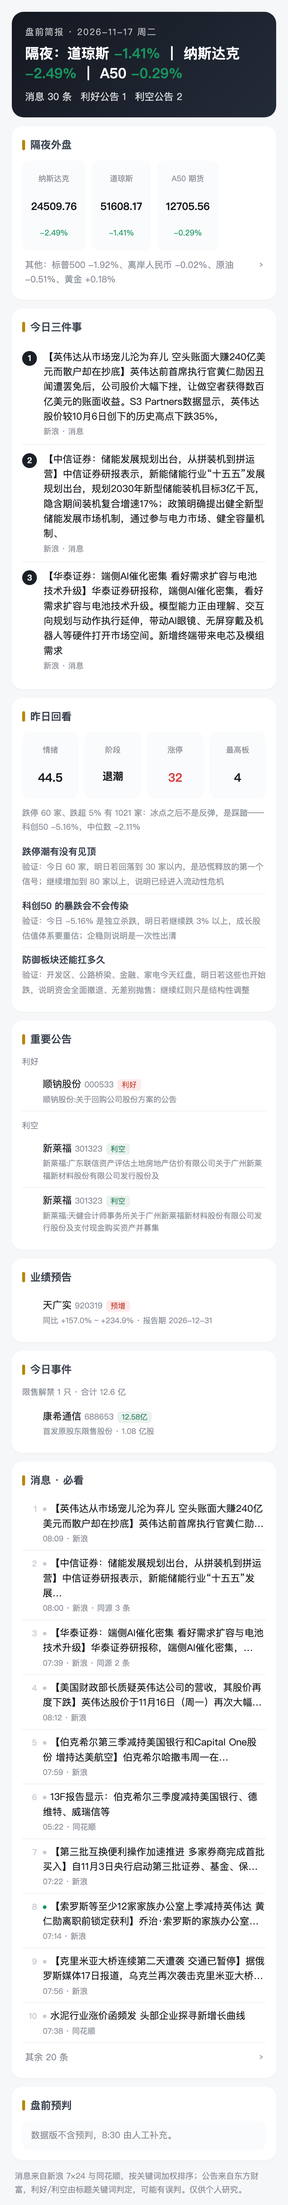
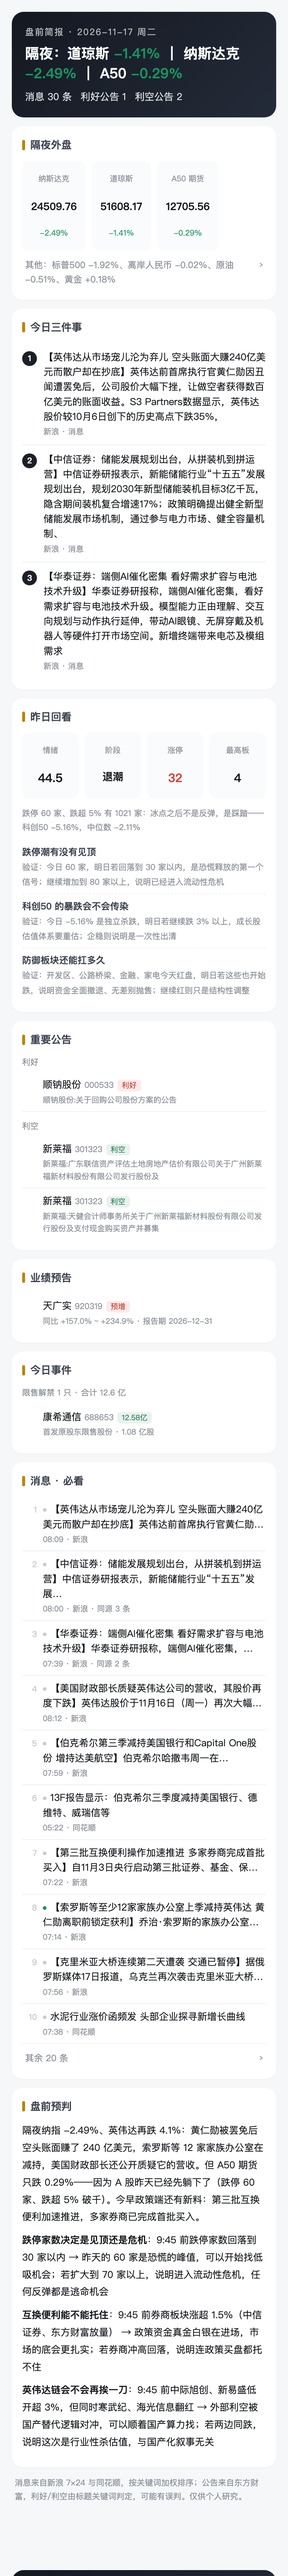
report: 2026-11-16

Changed region(s): [[0.0308, 0.0, 0.9538, 1.0]]

diff --git a/pre/2026-11-17/2026-11-17-盘前.html b/pre/2026-11-17/2026-11-17-盘前.html
@@ -57,4 +57,4 @@ padding:9px 16px;font-size:12.5px;max-width:560px;margin:0 auto}
 .nav a{color:#8a8f98;text-decoration:none;white-space:nowrap}
 .nav a.on{color:#1b1f27;font-weight:700}
 .nav a.home{color:#b8860b;font-weight:600}
-</style><link rel="manifest" href="/a-share-review/manifest.webmanifest"><meta name="theme-color" content="#1b1f27"><meta name="apple-mobile-web-app-capable" content="yes"><meta name="apple-mobile-web-app-status-bar-style" content="black-translucent"><meta name="apple-mobile-web-app-title" content="A股复盘"><link rel="apple-touch-icon" href="/a-share-review/icon-192.png"></head><body><div class="nav"><a class="home" href="../../index.html">⌂ 首页</a><a class="on" href="../../pre/index.html">盘前简报</a></div><div class="wrap"><div class="hero"><div class="d">盘前简报 · 2026-11-17 周二</div><h1>隔夜：道琼斯 <b class="down">-1.41%</b> ｜ 纳斯达克 <b class="down">-2.49%</b> ｜ A50 <b class="down">-0.29%</b></h1><div class="sum"><span>消息 30 条</span><span>利好公告 1</span><span>利空公告 2</span></div></div><div class="card"><h2>隔夜外盘</h2><div class="ov"><div><div class="n">纳斯达克</div><div class="v">24509.76</div><div class="p down">-2.49%</div></div><div><div class="n">道琼斯</div><div class="v">51608.17</div><div class="p down">-1.41%</div></div><div><div class="n">A50 期货</div><div class="v">12705.56</div><div class="p down">-0.29%</div></div></div><details class="more"><summary><span>其他：标普500 -1.92%、离岸人民币 -0.02%、原油 -0.51%、黄金 +0.18%</span><span class="arw">›</span></summary><div class="ov" style="margin-top:8px"><div><div class="n">标普500</div><div class="v">7416.59</div><div class="p down">-1.92%</div></div><div><div class="n">离岸人民币</div><div class="v">6.66</div><div class="p down">-0.02%</div></div><div><div class="n">原油</div><div class="v">85.28</div><div class="p down">-0.51%</div></div><div><div class="n">黄金</div><div class="v">3860.00</div><div class="p up">+0.18%</div></div></div></details></div><div class="card"><h2>今日三件事</h2><div class="t3"><div class="n">1</div><div><div class="t">【英伟达从市场宠儿沦为弃儿 空头账面大赚240亿美元而散户却在抄底】英伟达前首席执行官黄仁勋因丑闻遭罢免后，公司股价大幅下挫，让做空者获得数百亿美元的账面收益。S3 Partners数据显示，英伟达股价较10月6日创下的历史高点下跌35%，</div><div class="s">新浪 · 消息</div></div></div><div class="t3"><div class="n">2</div><div><div class="t">【中信证券：储能发展规划出台，从拼装机到拼运营】中信证券研报表示，新能储能行业“十五五”发展规划出台，规划2030年新型储能装机目标3亿千瓦，隐含期间装机复合增速17%；政策明确提出健全新型储能发展市场机制，通过参与电力市场、健全容量机制、</div><div class="s">新浪 · 消息</div></div></div><div class="t3"><div class="n">3</div><div><div class="t">【华泰证券：端侧AI催化密集 看好需求扩容与电池技术升级】华泰证券研报称，端侧AI催化密集，看好需求扩容与电池技术升级。模型能力正由理解、交互向规划与动作执行延伸，带动AI眼镜、无屏穿戴及机器人等硬件打开市场空间。新增终端带来电芯及模组需求</div><div class="s">新浪 · 消息</div></div></div></div><div class="card"><h2>昨日回看</h2><div class="kv"><div><div class="n">情绪</div><div class="v">44.5</div></div><div><div class="n">阶段</div><div class="v" style="font-size:14px">退潮</div></div><div><div class="n">涨停</div><div class="v up">32</div></div><div><div class="n">最高板</div><div class="v">4</div></div></div><div class="note" style="margin-bottom:8px">跌停 60 家、跌超 5% 有 1021 家：冰点之后不是反弹，是踩踏——科创50 -5.16%，中位数 -2.11%</div><div class="watch"><b>跌停潮有没有见顶</b><br><span class="note">验证：今日 60 家，明日若回落到 30 家以内，是恐慌释放的第一个信号；继续增加到 80 家以上，说明已经进入流动性危机</span></div><div class="watch"><b>科创50 的暴跌会不会传染</b><br><span class="note">验证：今日 -5.16% 是独立杀跌，明日若继续跌 3% 以上，成长股估值体系要重估；企稳则说明是一次性出清</span></div><div class="watch"><b>防御板块还能扛多久</b><br><span class="note">验证：开发区、公路桥梁、金融、家电今天红盘，明日若这些也开始跌，说明资金全面撤退、无差别抛售；继续红则只是结构性调整</span></div></div><div class="card"><h2>重要公告</h2><div class="note" style="margin-bottom:4px">利好</div><div class="item"><div class="no"></div><div class="b"><div class="t">顺钠股份 <span class="mut" style="font-size:11px">000533</span><span class="tag tag-good">利好</span></div><div class="m">顺钠股份:关于回购公司股份方案的公告</div></div></div><div class="note" style="margin:10px 0 4px">利空</div><div class="item"><div class="no"></div><div class="b"><div class="t">新莱福 <span class="mut" style="font-size:11px">301323</span><span class="tag tag-bad">利空</span></div><div class="m">新莱福:广东联信资产评估土地房地产估价有限公司关于广州新莱福新材料股份有限公司发行股份及</div></div></div><div class="item"><div class="no"></div><div class="b"><div class="t">新莱福 <span class="mut" style="font-size:11px">301323</span><span class="tag tag-bad">利空</span></div><div class="m">新莱福:天健会计师事务所关于广州新莱福新材料股份有限公司发行股份及支付现金购买资产并募集</div></div></div></div><div class="card"><h2>业绩预告</h2><div class="item"><div class="no"></div><div class="b"><div class="t">天广实 <span class="mut" style="font-size:11px">920319</span><span class="tag tag-good">预增</span></div><div class="m">同比 +157.0% ~ +234.9% · 报告期 2026-12-31</div></div></div></div><div class="card"><h2>今日事件</h2><div class="note" style="margin-bottom:6px">限售解禁 1 只 · 合计 12.6 亿</div><div class="item"><div class="no"></div><div class="b"><div class="t">康希通信 <span class="mut" style="font-size:11px">688653</span><span class="tag tag-bad">12.58亿</span></div><div class="m">首发原股东限售股份 · 1.08 亿股</div></div></div></div><div class="card"><h2>消息 · 必看</h2><div class="item"><div class="no">1</div><div class="b"><div class="t"><span class="dot n"></span>【英伟达从市场宠儿沦为弃儿 空头账面大赚240亿美元而散户却在抄底】英伟达前首席执行官黄仁勋…</div><div class="m">08:09 · 新浪</div></div></div><div class="item"><div class="no">2</div><div class="b"><div class="t"><span class="dot n"></span>【中信证券：储能发展规划出台，从拼装机到拼运营】中信证券研报表示，新能储能行业“十五五”发展…</div><div class="m">08:00 · 新浪 · 同源 3 条</div></div></div><div class="item"><div class="no">3</div><div class="b"><div class="t"><span class="dot n"></span>【华泰证券：端侧AI催化密集 看好需求扩容与电池技术升级】华泰证券研报称，端侧AI催化密集，…</div><div class="m">07:39 · 新浪 · 同源 2 条</div></div></div><div class="item"><div class="no">4</div><div class="b"><div class="t"><span class="dot n"></span>【美国财政部长质疑英伟达公司的营收，其股价再度下跌】英伟达股价于11月16日（周一）再次大幅…</div><div class="m">08:12 · 新浪</div></div></div><div class="item"><div class="no">5</div><div class="b"><div class="t"><span class="dot n"></span>【伯克希尔第三季减持美国银行和Capital One股份 增持达美航空】伯克希尔哈撒韦周一在…</div><div class="m">07:59 · 新浪</div></div></div><div class="item"><div class="no">6</div><div class="b"><div class="t"><span class="dot n"></span>13F报告显示：伯克希尔三季度减持美国银行、德维特、威瑞信等</div><div class="m">05:22 · 同花顺</div></div></div><div class="item"><div class="no">7</div><div class="b"><div class="t"><span class="dot n"></span>【第三批互换便利操作加速推进 多家券商完成首批买入】自11月3日央行启动第三批证券、基金、保…</div><div class="m">07:22 · 新浪</div></div></div><div class="item"><div class="no">8</div><div class="b"><div class="t"><span class="dot b2"></span>【索罗斯等至少12家家族办公室上季减持英伟达 黄仁勋离职前锁定获利】乔治·索罗斯的家族办公室…</div><div class="m">07:14 · 新浪</div></div></div><div class="item"><div class="no">9</div><div class="b"><div class="t"><span class="dot n"></span>【克里米亚大桥连续第二天遭袭 交通已暂停】据俄罗斯媒体17日报道，乌克兰再次袭击克里米亚大桥…</div><div class="m">07:56 · 新浪</div></div></div><div class="item"><div class="no">10</div><div class="b"><div class="t"><span class="dot n"></span>水泥行业涨价函频发 头部企业探寻新增长曲线</div><div class="m">07:38 · 同花顺</div></div></div><details class="more"><summary><span>其余 20 条</span><span class="arw">›</span></summary><div class="item"><div class="no">11</div><div class="b"><div class="t"><span class="dot n"></span>【多重因素压制金价上涨 机构对后市看法产生分歧】美国最新通胀数据公布后，国际金价近期再起波澜…</div><div class="m">07:20 · 新浪</div></div></div><div class="item"><div class="no">12</div><div class="b"><div class="t"><span class="dot n"></span>美联储哈马克：倾向于稳步、缓慢地逐步加息</div><div class="m">03:13 · 同花顺</div></div></div><div class="item"><div class="no">13</div><div class="b"><div class="t"><span class="dot n"></span>高盛：在各国央行持续购金推动下 金价到2027年底或升至4,650美元/盎司</div><div class="m">03:09 · 同花顺</div></div></div><div class="item"><div class="no">14</div><div class="b"><div class="t"><span class="dot b2"></span>加州起诉OpenAI：指控AI智能体失控引发网络安全事件</div><div class="m">08:16 · 同花顺</div></div></div><div class="item"><div class="no">15</div><div class="b"><div class="t"><span class="dot g"></span>【开源欧拉拥抱智能基础设施新赛道】近日，openEuler（开源欧拉）社区在开源欧拉大会20…</div><div class="m">07:57 · 新浪</div></div></div><div class="item"><div class="no">16</div><div class="b"><div class="t"><span class="dot g"></span>AI等硬科技企业密集赴港上市 商业化验证成为估值分水岭</div><div class="m">06:44 · 同花顺</div></div></div><div class="item"><div class="no">17</div><div class="b"><div class="t"><span class="dot g"></span>特斯拉拟投30亿欧元扩建德国工厂 瞄准年产百万辆Cybercab</div><div class="m">04:10 · 同花顺</div></div></div><div class="item"><div class="no">18</div><div class="b"><div class="t"><span class="dot n"></span>【中信建投：物理AI是人工智能下一波浪潮 建议聚焦优质环节】中信建投研报称，北美巨头加速布局…</div><div class="m">07:57 · 新浪</div></div></div><div class="item"><div class="no">19</div><div class="b"><div class="t"><span class="dot n"></span>【特朗普支持黄仁勋重掌英伟达 董事会据悉未考虑让他复职】美国总统唐纳德·特朗普支持一些硅谷领…</div><div class="m">07:25 · 新浪</div></div></div><div class="item"><div class="no">20</div><div class="b"><div class="t"><span class="dot n"></span>【德意志银行认为亚洲芯片贸易顺差流入美股为美元提供支撑】德意志银行认为，亚洲不断扩大的芯片贸…</div><div class="m">07:17 · 新浪</div></div></div><div class="item"><div class="no">21</div><div class="b"><div class="t"><span class="dot n"></span>美股收评：美股三大指数集体收跌 费城半导体指数重挫逾5%</div><div class="m">05:01 · 同花顺</div></div></div><div class="item"><div class="no">22</div><div class="b"><div class="t"><span class="dot g"></span>桥水基金第三季度增持美光、闪迪，重仓英伟达、博通和标普500指数ETF</div><div class="m">05:29 · 同花顺</div></div></div><div class="item"><div class="no">23</div><div class="b"><div class="t"><span class="dot g"></span>现货黄金突破3860美元/盎司，日内涨0.10%。</div><div class="m">07:49 · 新浪</div></div></div><div class="item"><div class="no">24</div><div class="b"><div class="t"><span class="dot b2"></span>Uber高级副总裁、首席法务官兼公司秘书Tony West减持价值248万美元的公司股票。</div><div class="m">07:48 · 新浪</div></div></div><div class="item"><div class="no">25</div><div class="b"><div class="t"><span class="dot b2"></span>【*ST公司年末冲刺保壳 “财技续壳”难过关】2026年还剩一个多月，一批处在退市边缘的*S…</div><div class="m">07:19 · 新浪</div></div></div><div class="item"><div class="no">26</div><div class="b"><div class="t"><span class="dot n"></span>【纳斯达克23小时制交易渐近 全球化赛道联动性或增强】纳斯达克“23/5”交易制度落地进入倒…</div><div class="m">07:32 · 新浪</div></div></div><div class="item"><div class="no">27</div><div class="b"><div class="t"><span class="dot n"></span>【日经指数下跌1% 受芯片股和金融股拖累】隔夜美国科技股走弱后，日本股市下跌。芯片股和金融股…</div><div class="m">08:16 · 新浪</div></div></div><div class="item"><div class="no">28</div><div class="b"><div class="t"><span class="dot n"></span>【Tradeweb开始向美国国债交易员推出AI助理 逾十家公司在测试】随着各大电子交易平台竞…</div><div class="m">08:07 · 新浪</div></div></div><div class="item"><div class="no">29</div><div class="b"><div class="t"><span class="dot n"></span>【前白宫经济顾问警告：若AI泡沫破裂，基准情形标普500或下跌25%】曾任美国白宫经济顾问委…</div><div class="m">07:55 · 新浪</div></div></div><div class="item"><div class="no">30</div><div class="b"><div class="t"><span class="dot n"></span>【天风证券：市场已接近相对底部区域 积极关注非银板块】天风证券发布市场报告称，从“稳”的角度…</div><div class="m">07:52 · 新浪</div></div></div></details></div><div class="card"><h2>盘前预判</h2><div class="empty">数据版不含预判，8:30 由人工补充。</div></div><div class="note" style="padding:0 4px">消息来自新浪 7×24 与同花顺，按关键词加权排序；公告来自东方财富，利好/利空由标题关键词判定，可能有误判。仅供个人研究。</div></div></body></html>
+</style><link rel="manifest" href="/a-share-review/manifest.webmanifest"><meta name="theme-color" content="#1b1f27"><meta name="apple-mobile-web-app-capable" content="yes"><meta name="apple-mobile-web-app-status-bar-style" content="black-translucent"><meta name="apple-mobile-web-app-title" content="A股复盘"><link rel="apple-touch-icon" href="/a-share-review/icon-192.png"></head><body><div class="nav"><a class="home" href="../../index.html">⌂ 首页</a><a class="on" href="../../pre/index.html">盘前简报</a></div><div class="wrap"><div class="hero"><div class="d">盘前简报 · 2026-11-17 周二</div><h1>隔夜：道琼斯 <b class="down">-1.41%</b> ｜ 纳斯达克 <b class="down">-2.49%</b> ｜ A50 <b class="down">-0.29%</b></h1><div class="sum"><span>消息 30 条</span><span>利好公告 1</span><span>利空公告 2</span></div></div><div class="card"><h2>隔夜外盘</h2><div class="ov"><div><div class="n">纳斯达克</div><div class="v">24509.76</div><div class="p down">-2.49%</div></div><div><div class="n">道琼斯</div><div class="v">51608.17</div><div class="p down">-1.41%</div></div><div><div class="n">A50 期货</div><div class="v">12705.56</div><div class="p down">-0.29%</div></div></div><details class="more"><summary><span>其他：标普500 -1.92%、离岸人民币 -0.02%、原油 -0.51%、黄金 +0.18%</span><span class="arw">›</span></summary><div class="ov" style="margin-top:8px"><div><div class="n">标普500</div><div class="v">7416.59</div><div class="p down">-1.92%</div></div><div><div class="n">离岸人民币</div><div class="v">6.66</div><div class="p down">-0.02%</div></div><div><div class="n">原油</div><div class="v">85.28</div><div class="p down">-0.51%</div></div><div><div class="n">黄金</div><div class="v">3860.00</div><div class="p up">+0.18%</div></div></div></details></div><div class="card"><h2>今日三件事</h2><div class="t3"><div class="n">1</div><div><div class="t">【英伟达从市场宠儿沦为弃儿 空头账面大赚240亿美元而散户却在抄底】英伟达前首席执行官黄仁勋因丑闻遭罢免后，公司股价大幅下挫，让做空者获得数百亿美元的账面收益。S3 Partners数据显示，英伟达股价较10月6日创下的历史高点下跌35%，</div><div class="s">新浪 · 消息</div></div></div><div class="t3"><div class="n">2</div><div><div class="t">【中信证券：储能发展规划出台，从拼装机到拼运营】中信证券研报表示，新能储能行业“十五五”发展规划出台，规划2030年新型储能装机目标3亿千瓦，隐含期间装机复合增速17%；政策明确提出健全新型储能发展市场机制，通过参与电力市场、健全容量机制、</div><div class="s">新浪 · 消息</div></div></div><div class="t3"><div class="n">3</div><div><div class="t">【华泰证券：端侧AI催化密集 看好需求扩容与电池技术升级】华泰证券研报称，端侧AI催化密集，看好需求扩容与电池技术升级。模型能力正由理解、交互向规划与动作执行延伸，带动AI眼镜、无屏穿戴及机器人等硬件打开市场空间。新增终端带来电芯及模组需求</div><div class="s">新浪 · 消息</div></div></div></div><div class="card"><h2>昨日回看</h2><div class="kv"><div><div class="n">情绪</div><div class="v">44.5</div></div><div><div class="n">阶段</div><div class="v" style="font-size:14px">退潮</div></div><div><div class="n">涨停</div><div class="v up">32</div></div><div><div class="n">最高板</div><div class="v">4</div></div></div><div class="note" style="margin-bottom:8px">跌停 60 家、跌超 5% 有 1021 家：冰点之后不是反弹，是踩踏——科创50 -5.16%，中位数 -2.11%</div><div class="watch"><b>跌停潮有没有见顶</b><br><span class="note">验证：今日 60 家，明日若回落到 30 家以内，是恐慌释放的第一个信号；继续增加到 80 家以上，说明已经进入流动性危机</span></div><div class="watch"><b>科创50 的暴跌会不会传染</b><br><span class="note">验证：今日 -5.16% 是独立杀跌，明日若继续跌 3% 以上，成长股估值体系要重估；企稳则说明是一次性出清</span></div><div class="watch"><b>防御板块还能扛多久</b><br><span class="note">验证：开发区、公路桥梁、金融、家电今天红盘，明日若这些也开始跌，说明资金全面撤退、无差别抛售；继续红则只是结构性调整</span></div></div><div class="card"><h2>重要公告</h2><div class="note" style="margin-bottom:4px">利好</div><div class="item"><div class="no"></div><div class="b"><div class="t">顺钠股份 <span class="mut" style="font-size:11px">000533</span><span class="tag tag-good">利好</span></div><div class="m">顺钠股份:关于回购公司股份方案的公告</div></div></div><div class="note" style="margin:10px 0 4px">利空</div><div class="item"><div class="no"></div><div class="b"><div class="t">新莱福 <span class="mut" style="font-size:11px">301323</span><span class="tag tag-bad">利空</span></div><div class="m">新莱福:广东联信资产评估土地房地产估价有限公司关于广州新莱福新材料股份有限公司发行股份及</div></div></div><div class="item"><div class="no"></div><div class="b"><div class="t">新莱福 <span class="mut" style="font-size:11px">301323</span><span class="tag tag-bad">利空</span></div><div class="m">新莱福:天健会计师事务所关于广州新莱福新材料股份有限公司发行股份及支付现金购买资产并募集</div></div></div></div><div class="card"><h2>业绩预告</h2><div class="item"><div class="no"></div><div class="b"><div class="t">天广实 <span class="mut" style="font-size:11px">920319</span><span class="tag tag-good">预增</span></div><div class="m">同比 +157.0% ~ +234.9% · 报告期 2026-12-31</div></div></div></div><div class="card"><h2>今日事件</h2><div class="note" style="margin-bottom:6px">限售解禁 1 只 · 合计 12.6 亿</div><div class="item"><div class="no"></div><div class="b"><div class="t">康希通信 <span class="mut" style="font-size:11px">688653</span><span class="tag tag-bad">12.58亿</span></div><div class="m">首发原股东限售股份 · 1.08 亿股</div></div></div></div><div class="card"><h2>消息 · 必看</h2><div class="item"><div class="no">1</div><div class="b"><div class="t"><span class="dot n"></span>【英伟达从市场宠儿沦为弃儿 空头账面大赚240亿美元而散户却在抄底】英伟达前首席执行官黄仁勋…</div><div class="m">08:09 · 新浪</div></div></div><div class="item"><div class="no">2</div><div class="b"><div class="t"><span class="dot n"></span>【中信证券：储能发展规划出台，从拼装机到拼运营】中信证券研报表示，新能储能行业“十五五”发展…</div><div class="m">08:00 · 新浪 · 同源 3 条</div></div></div><div class="item"><div class="no">3</div><div class="b"><div class="t"><span class="dot n"></span>【华泰证券：端侧AI催化密集 看好需求扩容与电池技术升级】华泰证券研报称，端侧AI催化密集，…</div><div class="m">07:39 · 新浪 · 同源 2 条</div></div></div><div class="item"><div class="no">4</div><div class="b"><div class="t"><span class="dot n"></span>【美国财政部长质疑英伟达公司的营收，其股价再度下跌】英伟达股价于11月16日（周一）再次大幅…</div><div class="m">08:12 · 新浪</div></div></div><div class="item"><div class="no">5</div><div class="b"><div class="t"><span class="dot n"></span>【伯克希尔第三季减持美国银行和Capital One股份 增持达美航空】伯克希尔哈撒韦周一在…</div><div class="m">07:59 · 新浪</div></div></div><div class="item"><div class="no">6</div><div class="b"><div class="t"><span class="dot n"></span>13F报告显示：伯克希尔三季度减持美国银行、德维特、威瑞信等</div><div class="m">05:22 · 同花顺</div></div></div><div class="item"><div class="no">7</div><div class="b"><div class="t"><span class="dot n"></span>【第三批互换便利操作加速推进 多家券商完成首批买入】自11月3日央行启动第三批证券、基金、保…</div><div class="m">07:22 · 新浪</div></div></div><div class="item"><div class="no">8</div><div class="b"><div class="t"><span class="dot b2"></span>【索罗斯等至少12家家族办公室上季减持英伟达 黄仁勋离职前锁定获利】乔治·索罗斯的家族办公室…</div><div class="m">07:14 · 新浪</div></div></div><div class="item"><div class="no">9</div><div class="b"><div class="t"><span class="dot n"></span>【克里米亚大桥连续第二天遭袭 交通已暂停】据俄罗斯媒体17日报道，乌克兰再次袭击克里米亚大桥…</div><div class="m">07:56 · 新浪</div></div></div><div class="item"><div class="no">10</div><div class="b"><div class="t"><span class="dot n"></span>水泥行业涨价函频发 头部企业探寻新增长曲线</div><div class="m">07:38 · 同花顺</div></div></div><details class="more"><summary><span>其余 20 条</span><span class="arw">›</span></summary><div class="item"><div class="no">11</div><div class="b"><div class="t"><span class="dot n"></span>【多重因素压制金价上涨 机构对后市看法产生分歧】美国最新通胀数据公布后，国际金价近期再起波澜…</div><div class="m">07:20 · 新浪</div></div></div><div class="item"><div class="no">12</div><div class="b"><div class="t"><span class="dot n"></span>美联储哈马克：倾向于稳步、缓慢地逐步加息</div><div class="m">03:13 · 同花顺</div></div></div><div class="item"><div class="no">13</div><div class="b"><div class="t"><span class="dot n"></span>高盛：在各国央行持续购金推动下 金价到2027年底或升至4,650美元/盎司</div><div class="m">03:09 · 同花顺</div></div></div><div class="item"><div class="no">14</div><div class="b"><div class="t"><span class="dot b2"></span>加州起诉OpenAI：指控AI智能体失控引发网络安全事件</div><div class="m">08:16 · 同花顺</div></div></div><div class="item"><div class="no">15</div><div class="b"><div class="t"><span class="dot g"></span>【开源欧拉拥抱智能基础设施新赛道】近日，openEuler（开源欧拉）社区在开源欧拉大会20…</div><div class="m">07:57 · 新浪</div></div></div><div class="item"><div class="no">16</div><div class="b"><div class="t"><span class="dot g"></span>AI等硬科技企业密集赴港上市 商业化验证成为估值分水岭</div><div class="m">06:44 · 同花顺</div></div></div><div class="item"><div class="no">17</div><div class="b"><div class="t"><span class="dot g"></span>特斯拉拟投30亿欧元扩建德国工厂 瞄准年产百万辆Cybercab</div><div class="m">04:10 · 同花顺</div></div></div><div class="item"><div class="no">18</div><div class="b"><div class="t"><span class="dot n"></span>【中信建投：物理AI是人工智能下一波浪潮 建议聚焦优质环节】中信建投研报称，北美巨头加速布局…</div><div class="m">07:57 · 新浪</div></div></div><div class="item"><div class="no">19</div><div class="b"><div class="t"><span class="dot n"></span>【特朗普支持黄仁勋重掌英伟达 董事会据悉未考虑让他复职】美国总统唐纳德·特朗普支持一些硅谷领…</div><div class="m">07:25 · 新浪</div></div></div><div class="item"><div class="no">20</div><div class="b"><div class="t"><span class="dot n"></span>【德意志银行认为亚洲芯片贸易顺差流入美股为美元提供支撑】德意志银行认为，亚洲不断扩大的芯片贸…</div><div class="m">07:17 · 新浪</div></div></div><div class="item"><div class="no">21</div><div class="b"><div class="t"><span class="dot n"></span>美股收评：美股三大指数集体收跌 费城半导体指数重挫逾5%</div><div class="m">05:01 · 同花顺</div></div></div><div class="item"><div class="no">22</div><div class="b"><div class="t"><span class="dot g"></span>桥水基金第三季度增持美光、闪迪，重仓英伟达、博通和标普500指数ETF</div><div class="m">05:29 · 同花顺</div></div></div><div class="item"><div class="no">23</div><div class="b"><div class="t"><span class="dot g"></span>现货黄金突破3860美元/盎司，日内涨0.10%。</div><div class="m">07:49 · 新浪</div></div></div><div class="item"><div class="no">24</div><div class="b"><div class="t"><span class="dot b2"></span>Uber高级副总裁、首席法务官兼公司秘书Tony West减持价值248万美元的公司股票。</div><div class="m">07:48 · 新浪</div></div></div><div class="item"><div class="no">25</div><div class="b"><div class="t"><span class="dot b2"></span>【*ST公司年末冲刺保壳 “财技续壳”难过关】2026年还剩一个多月，一批处在退市边缘的*S…</div><div class="m">07:19 · 新浪</div></div></div><div class="item"><div class="no">26</div><div class="b"><div class="t"><span class="dot n"></span>【纳斯达克23小时制交易渐近 全球化赛道联动性或增强】纳斯达克“23/5”交易制度落地进入倒…</div><div class="m">07:32 · 新浪</div></div></div><div class="item"><div class="no">27</div><div class="b"><div class="t"><span class="dot n"></span>【日经指数下跌1% 受芯片股和金融股拖累】隔夜美国科技股走弱后，日本股市下跌。芯片股和金融股…</div><div class="m">08:16 · 新浪</div></div></div><div class="item"><div class="no">28</div><div class="b"><div class="t"><span class="dot n"></span>【Tradeweb开始向美国国债交易员推出AI助理 逾十家公司在测试】随着各大电子交易平台竞…</div><div class="m">08:07 · 新浪</div></div></div><div class="item"><div class="no">29</div><div class="b"><div class="t"><span class="dot n"></span>【前白宫经济顾问警告：若AI泡沫破裂，基准情形标普500或下跌25%】曾任美国白宫经济顾问委…</div><div class="m">07:55 · 新浪</div></div></div><div class="item"><div class="no">30</div><div class="b"><div class="t"><span class="dot n"></span>【天风证券：市场已接近相对底部区域 积极关注非银板块】天风证券发布市场报告称，从“稳”的角度…</div><div class="m">07:52 · 新浪</div></div></div></details></div><div class="card"><h2>盘前预判</h2><div class="jd"><p>隔夜纳指 -2.49%、英伟达再跌 4.1%：黄仁勋被罢免后空头账面赚了 240 亿美元，索罗斯等 12 家家族办公室在减持，美国财政部长还公开质疑它的营收。但 A50 期货只跌 0.29%——因为 A 股昨天已经先躺下了（跌停 60 家、跌超 5% 破千）。今早政策端还有新料：第三批互换便利加速推进，多家券商已完成首批买入。</p><p><b>跌停家数决定是见顶还是危机</b>：9:45 前跌停家数回落到 30 家以内 → 昨天的 60 家是恐慌的峰值，可以开始找低吸机会；若扩大到 70 家以上，说明进入流动性危机，任何反弹都是逃命机会</p><p><b>互换便利能不能托住</b>：9:45 前券商板块涨超 1.5%（中信证券、东方财富放量） → 政策资金真金白银在进场，市场的底会更扎实；若券商冲高回落，说明连政策买盘都托不住</p><p><b>英伟达链会不会再挨一刀</b>：9:45 前中际旭创、新易盛低开超 3%，但同时寒武纪、海光信息翻红 → 外部利空被国产替代逻辑对冲，可以顺着国产算力找；若两边同跌，说明这次是行业性杀估值，与国产化叙事无关</p></div></div><div class="note" style="padding:0 4px">消息来自新浪 7×24 与同花顺，按关键词加权排序；公告来自东方财富，利好/利空由标题关键词判定，可能有误判。仅供个人研究。</div></div></body></html>

diff --git a/pre/index.html b/pre/index.html
@@ -47,6 +47,6 @@ padding-bottom:env(safe-area-inset-bottom)}
 .tabbar a.on::after{content:"";display:block;width:18px;height:2.5px;border-radius:2px;background:var(--gold);margin:5px auto 0}
 </style><link rel="manifest" href="/a-share-review/manifest.webmanifest"><meta name="theme-color" content="#1b1f27"><meta name="apple-mobile-web-app-capable" content="yes"><meta name="apple-mobile-web-app-status-bar-style" content="black-translucent"><meta name="apple-mobile-web-app-title" content="A股复盘"><link rel="apple-touch-icon" href="/a-share-review/icon-192.png"></head><body><div class="wrap">
 <div class="head"><h1>盘前简报</h1><div class="sub">共 12 篇 · 交易日 08:20</div></div>
-<a class="hero" href="2026-11-17/2026-11-17-盘前.html?v=1794874808"><div class="ht">最新盘前 · 2026-11-17</div><div class="hrow"><div><div class="hn">纳指</div><div class="hv down">-2.49%</div></div><div><div class="hn">道指</div><div class="hv down">-1.41%</div></div><div><div class="hn">A50</div><div class="hv down">-0.29%</div></div><div><div class="hn">消息</div><div class="hv">30</div></div></div><div class="hb">点开看完整盘前简报 →</div></a>
-<details class="month" open><summary><span><b>2026-11</b>　12 篇</span><span class="arw">›</span></summary><div class="list"><a class="row" href="2026-11-17/2026-11-17-盘前.html?v=1794874808"><div class="rl"><div class="rd">11-17</div><div class="rw">周二</div></div><div class="rm"><span class="k down">纳指 -2.49%</span><span class="k2">30 条消息</span></div></a><a class="row" href="2026-11-16/2026-11-16-盘前.html?v=1794789015"><div class="rl"><div class="rd">11-16</div><div class="rw">周一</div></div><div class="rm"><span class="k down">纳指 -0.91%</span><span class="k2">30 条消息</span><span class="tag2">预判</span></div></a><a class="row" href="2026-11-13/2026-11-13-盘前.html?v=1794529811"><div class="rl"><div class="rd">11-13</div><div class="rw">周五</div></div><div class="rm"><span class="k down">纳指 -0.39%</span><span class="k2">30 条消息</span><span class="tag2">预判</span></div></a><a class="row" href="2026-11-12/2026-11-12-盘前.html?v=1794443410"><div class="rl"><div class="rd">11-12</div><div class="rw">周四</div></div><div class="rm"><span class="k up">纳指 +1.60%</span><span class="k2">30 条消息</span><span class="tag2">预判</span></div></a><a class="row" href="2026-11-11/2026-11-11-盘前.html?v=1794357010"><div class="rl"><div class="rd">11-11</div><div class="rw">周三</div></div><div class="rm"><span class="k down">纳指 -0.74%</span><span class="k2">30 条消息</span><span class="tag2">预判</span></div></a><a class="row" href="2026-11-10/2026-11-10-盘前.html?v=1794270612"><div class="rl"><div class="rd">11-10</div><div class="rw">周二</div></div><div class="rm"><span class="k up">纳指 +2.74%</span><span class="k2">30 条消息</span><span class="tag2">预判</span></div></a><a class="row" href="2026-11-09/2026-11-09-盘前.html?v=1794194683"><div class="rl"><div class="rd">11-09</div><div class="rw">周一</div></div><div class="rm"><span class="k up">纳指 +1.09%</span><span class="k2">30 条消息</span><span class="tag2">预判</span></div></a><a class="row" href="2026-11-06/2026-11-06-盘前.html?v=1793928167"><div class="rl"><div class="rd">11-06</div><div class="rw">周五</div></div><div class="rm"><span class="k down">纳指 -5.52%</span><span class="k2">30 条消息</span><span class="tag2">预判</span></div></a><a class="row" href="2026-11-05/2026-11-05-盘前.html?v=1793928167"><div class="rl"><div class="rd">11-05</div><div class="rw">周四</div></div><div class="rm"><span class="k up">纳指 +1.44%</span><span class="k2">18 条消息</span><span class="tag2">预判</span></div></a><a class="row" href="2026-11-04/2026-11-04-盘前.html?v=1793928167"><div class="rl"><div class="rd">11-04</div><div class="rw">周三</div></div><div class="rm"><span class="k up">纳指 +0.83%</span><span class="k2">30 条消息</span><span class="tag2">预判</span></div></a><a class="row" href="2026-11-03/2026-11-03-盘前.html?v=1793928166"><div class="rl"><div class="rd">11-03</div><div class="rw">周二</div></div><div class="rm"><span class="k down">纳指 -1.07%</span><span class="k2">30 条消息</span><span class="tag2">预判</span></div></a><a class="row" href="2026-11-02/2026-11-02-盘前.html?v=1793928166"><div class="rl"><div class="rd">11-02</div><div class="rw">周一</div></div><div class="rm"><span class="k down">纳指 -2.86%</span><span class="k2">30 条消息</span></div></a></div></details>
+<a class="hero" href="2026-11-17/2026-11-17-盘前.html?v=1794875413"><div class="ht">最新盘前 · 2026-11-17</div><div class="hrow"><div><div class="hn">纳指</div><div class="hv down">-2.49%</div></div><div><div class="hn">道指</div><div class="hv down">-1.41%</div></div><div><div class="hn">A50</div><div class="hv down">-0.29%</div></div><div><div class="hn">消息</div><div class="hv">30</div></div></div><div class="hj">隔夜纳指 -2.49%、英伟达再跌 4.1%：黄仁勋被罢免后空头账面赚了 240 亿美元，索罗斯等 12 家家族办公室在</div><div class="hb">点开看完整盘前简报 →</div></a>
+<details class="month" open><summary><span><b>2026-11</b>　12 篇</span><span class="arw">›</span></summary><div class="list"><a class="row" href="2026-11-17/2026-11-17-盘前.html?v=1794875413"><div class="rl"><div class="rd">11-17</div><div class="rw">周二</div></div><div class="rm"><span class="k down">纳指 -2.49%</span><span class="k2">30 条消息</span><span class="tag2">预判</span></div></a><a class="row" href="2026-11-16/2026-11-16-盘前.html?v=1794789015"><div class="rl"><div class="rd">11-16</div><div class="rw">周一</div></div><div class="rm"><span class="k down">纳指 -0.91%</span><span class="k2">30 条消息</span><span class="tag2">预判</span></div></a><a class="row" href="2026-11-13/2026-11-13-盘前.html?v=1794529811"><div class="rl"><div class="rd">11-13</div><div class="rw">周五</div></div><div class="rm"><span class="k down">纳指 -0.39%</span><span class="k2">30 条消息</span><span class="tag2">预判</span></div></a><a class="row" href="2026-11-12/2026-11-12-盘前.html?v=1794443410"><div class="rl"><div class="rd">11-12</div><div class="rw">周四</div></div><div class="rm"><span class="k up">纳指 +1.60%</span><span class="k2">30 条消息</span><span class="tag2">预判</span></div></a><a class="row" href="2026-11-11/2026-11-11-盘前.html?v=1794357010"><div class="rl"><div class="rd">11-11</div><div class="rw">周三</div></div><div class="rm"><span class="k down">纳指 -0.74%</span><span class="k2">30 条消息</span><span class="tag2">预判</span></div></a><a class="row" href="2026-11-10/2026-11-10-盘前.html?v=1794270612"><div class="rl"><div class="rd">11-10</div><div class="rw">周二</div></div><div class="rm"><span class="k up">纳指 +2.74%</span><span class="k2">30 条消息</span><span class="tag2">预判</span></div></a><a class="row" href="2026-11-09/2026-11-09-盘前.html?v=1794194683"><div class="rl"><div class="rd">11-09</div><div class="rw">周一</div></div><div class="rm"><span class="k up">纳指 +1.09%</span><span class="k2">30 条消息</span><span class="tag2">预判</span></div></a><a class="row" href="2026-11-06/2026-11-06-盘前.html?v=1793928167"><div class="rl"><div class="rd">11-06</div><div class="rw">周五</div></div><div class="rm"><span class="k down">纳指 -5.52%</span><span class="k2">30 条消息</span><span class="tag2">预判</span></div></a><a class="row" href="2026-11-05/2026-11-05-盘前.html?v=1793928167"><div class="rl"><div class="rd">11-05</div><div class="rw">周四</div></div><div class="rm"><span class="k up">纳指 +1.44%</span><span class="k2">18 条消息</span><span class="tag2">预判</span></div></a><a class="row" href="2026-11-04/2026-11-04-盘前.html?v=1793928167"><div class="rl"><div class="rd">11-04</div><div class="rw">周三</div></div><div class="rm"><span class="k up">纳指 +0.83%</span><span class="k2">30 条消息</span><span class="tag2">预判</span></div></a><a class="row" href="2026-11-03/2026-11-03-盘前.html?v=1793928166"><div class="rl"><div class="rd">11-03</div><div class="rw">周二</div></div><div class="rm"><span class="k down">纳指 -1.07%</span><span class="k2">30 条消息</span><span class="tag2">预判</span></div></a><a class="row" href="2026-11-02/2026-11-02-盘前.html?v=1793928166"><div class="rl"><div class="rd">11-02</div><div class="rw">周一</div></div><div class="rm"><span class="k down">纳指 -2.86%</span><span class="k2">30 条消息</span></div></a></div></details>
 </div><div class="tabbar"><a href="../index.html">每日复盘</a><a href="index.html" class="on">盘前简报</a><a href="../earn/index.html">业绩追踪</a></div></body></html>

diff --git a/index.html b/index.html
@@ -196,7 +196,7 @@ padding-bottom:env(safe-area-inset-bottom)}
   </div>
 </a></div></details>
 <div class="foot">数据与判断仅供个人研究，不构成投资建议<br>
-生成于 2026-11-17 08:20</div>
+生成于 2026-11-17 08:30</div>
 <div class="tabbar"><a href="index.html" class="on">每日复盘</a><a href="pre/index.html">盘前简报</a><a href="earn/index.html">业绩追踪</a></div>
 </div>
 <script>

diff --git a/pre/2026-11-17/2026-11-17-盘前.md b/pre/2026-11-17/2026-11-17-盘前.md
@@ -77,4 +77,8 @@
 
 ## 盘前预判
 
-> 8:30 由人工补充（数据版不含预判）。
+隔夜纳指 -2.49%、英伟达再跌 4.1%：黄仁勋被罢免后空头账面赚了 240 亿美元，索罗斯等 12 家家族办公室在减持，美国财政部长还公开质疑它的营收。但 A50 期货只跌 0.29%——因为 A 股昨天已经先躺下了（跌停 60 家、跌超 5% 破千）。今早政策端还有新料：第三批互换便利加速推进，多家券商已完成首批买入。
+
+- **跌停家数决定是见顶还是危机**：9:45 前跌停家数回落到 30 家以内 → 昨天的 60 家是恐慌的峰值，可以开始找低吸机会；若扩大到 70 家以上，说明进入流动性危机，任何反弹都是逃命机会
+- **互换便利能不能托住**：9:45 前券商板块涨超 1.5%（中信证券、东方财富放量） → 政策资金真金白银在进场，市场的底会更扎实；若券商冲高回落，说明连政策买盘都托不住
+- **英伟达链会不会再挨一刀**：9:45 前中际旭创、新易盛低开超 3%，但同时寒武纪、海光信息翻红 → 外部利空被国产替代逻辑对冲，可以顺着国产算力找；若两边同跌，说明这次是行业性杀估值，与国产化叙事无关
